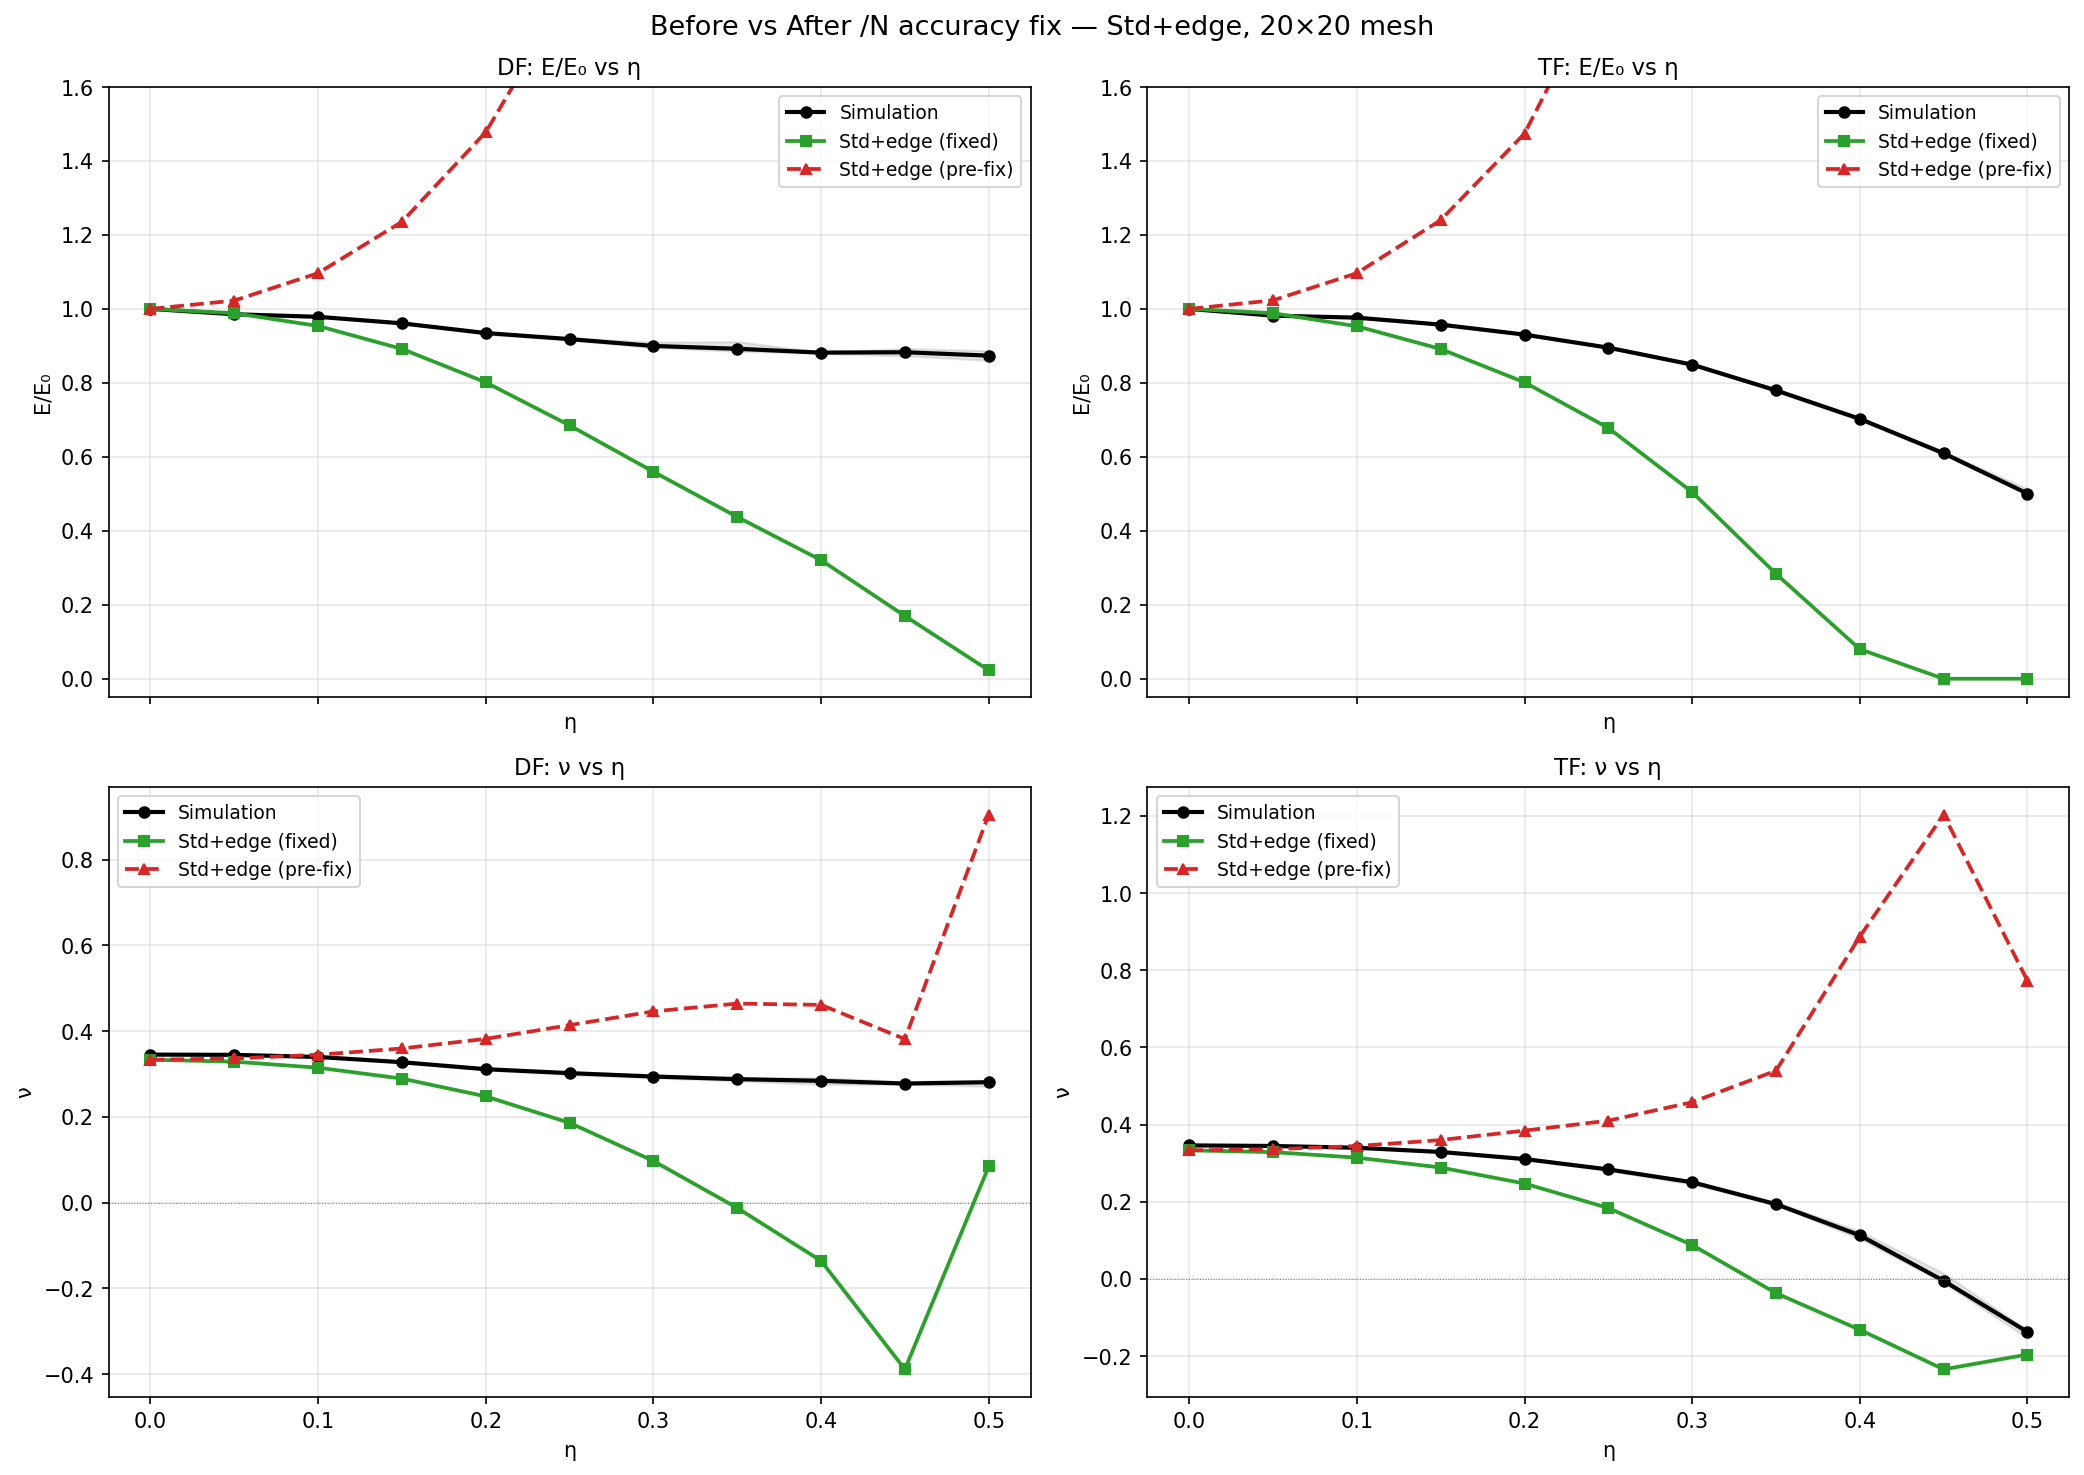
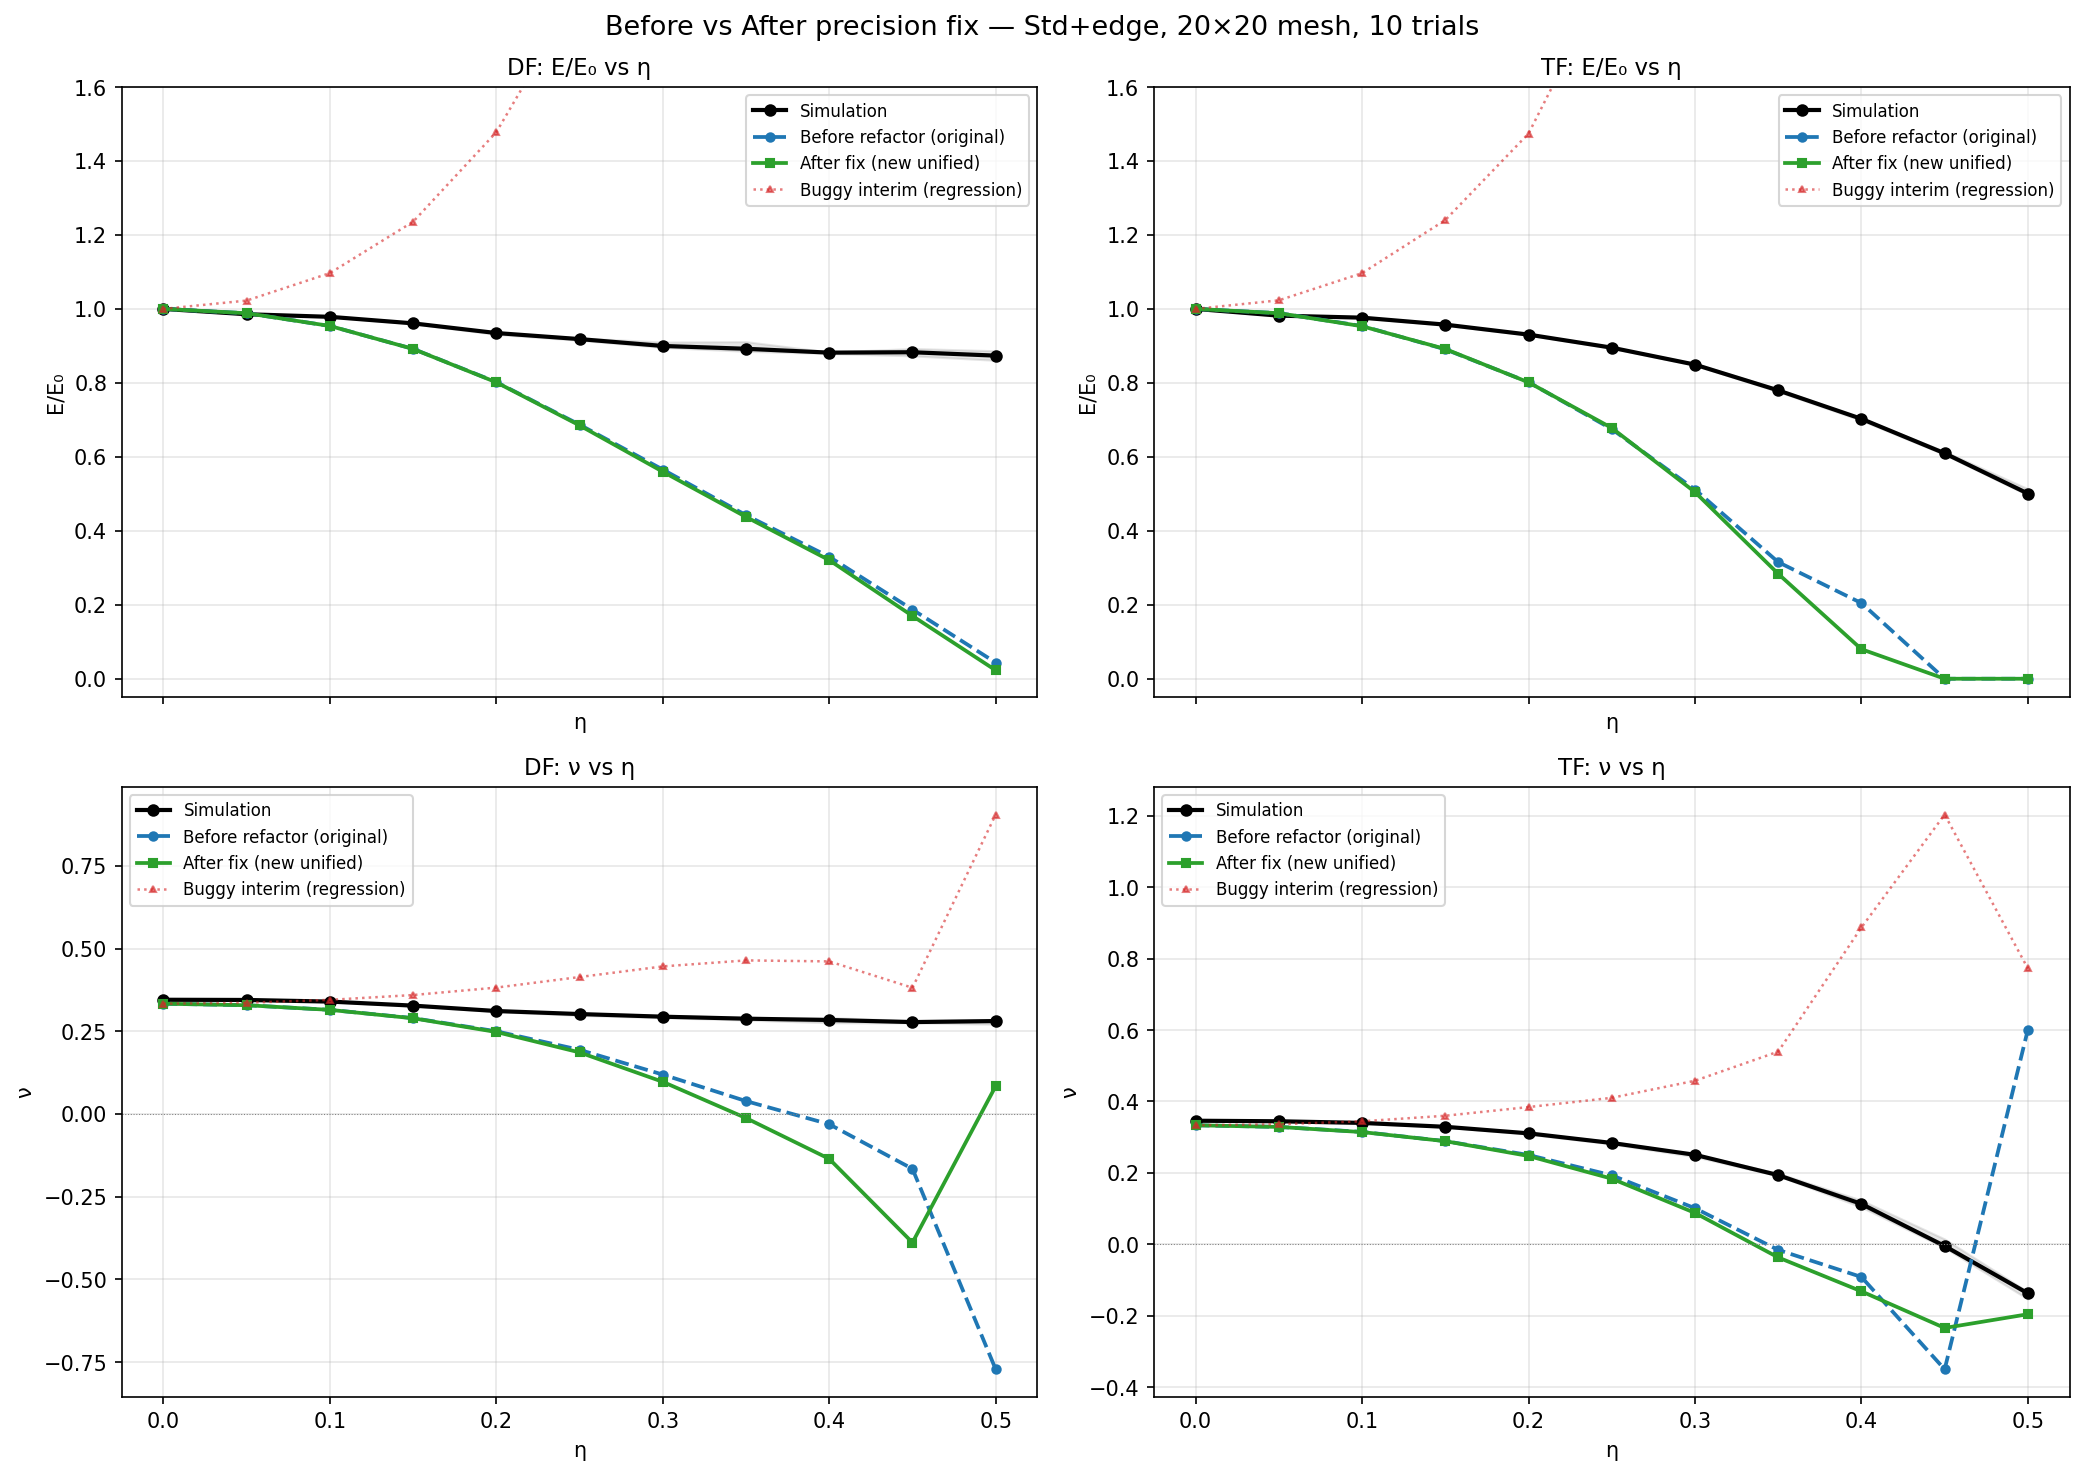
Fix before/after comparison: use actual original _woodbury_kkt_sparse
Previous version showed the buggy interim (which was never the original).
Now shows three lines:
  - blue dashed: original _woodbury_kkt_sparse (pre-refactor, correct)
  - green solid:  _woodbury_kkt_sparse_combined after /N fix (new, correct)
  - red dotted:   buggy interim (temporary regression during refactor)

Original and fixed are nearly identical — confirms the fix restored
correctness without changing results. Old function ran ~10× slower (55s/eta
vs 6s/eta) which motivated the refactor.

https://claude.ai/code/session_015phVDszgsK9y7r119GVKi9

diff --git a/benchmarking/run_before_after_fix.py b/benchmarking/run_before_after_fix.py
@@ -1,18 +1,12 @@
 """
-Before vs after the /N accuracy fix — showing exactly what changed.
+True before/after: original _woodbury_kkt_sparse (pre-refactor) vs
+new _woodbury_kkt_sparse_combined (post-fix).
 
-Only Std+edge was affected: the bug was in the non-AW (weights=None) branch
-of _woodbury_kkt_sparse_combined. AW+edge, Std, AW were all unaffected.
-
-Strategy: monkey-patch fst._woodbury_kkt_sparse_combined with the buggy
-version, call solver.forward(use_kkt=True, area_weighted=False) to collect
-pre-fix results, then restore.  Identical seeds/meshes as the fixed run.
+The buggy intermediate state (from the broken unified routing) is also shown
+for completeness but is clearly labeled as a temporary regression.
 """
 import sys, os, time
 import numpy as np
-import scipy.sparse as sp
-import scipy.sparse.linalg as spla
-from collections import defaultdict
 import matplotlib
 matplotlib.use('Agg')
 import matplotlib.pyplot as plt
@@ -30,107 +24,9 @@ SIZE       = (20, 20)
 TRIM_FRAC  = 0.85
 N_TRIALS   = 10
 
-CACHE_BUGGY = os.path.join(os.path.dirname(__file__), 'mf20_buggy_stdedge.npz')
-OUT         = os.path.join(os.path.dirname(__file__), 'new', 'before_after_fix.png')
+CACHE_OLD = os.path.join(os.path.dirname(__file__), 'mf20_old_kkt_data.npz')
+OUT       = os.path.join(os.path.dirname(__file__), 'new', 'before_after_fix.png')
 
-# ── Buggy replacement for _woodbury_kkt_sparse_combined ──────────────────────
-# Identical to the production function except for two /N lines restored
-# in the non-AW (weights=None) branch.
-
-def _woodbury_kkt_combined_BUGGY(A_blocks, B_blocks, dA_vecs,
-                                  kkt_arrays, angle_arrays=None, weights=None):
-    """Pre-fix version: two spurious /N divisions in non-AW Woodbury."""
-    if weights is not None:
-        # AW branch was correct — delegate to the real fixed function
-        return fst._woodbury_kkt_sparse_combined_FIXED(
-            A_blocks, B_blocks, dA_vecs, kkt_arrays, angle_arrays, weights)
-
-    s1_arr, s2_arr, q_arr = kkt_arrays
-    E_int  = len(s1_arr)
-    M_c    = E_int
-    N      = A_blocks.shape[0]
-
-    A_np  = A_blocks.detach().double().numpy()
-    B_np  = B_blocks.detach().double().numpy()
-    dA_np = dA_vecs.detach().double().numpy()
-
-    IDX3  = np.array([0, 3, 6])
-    M_np  = A_np[:, IDX3[:, None], IDX3[None, :]]
-    dM_np = B_np[:, IDX3[:, None], IDX3[None, :]]
-    eps3  = 1e-14 * np.abs(M_np).max()
-    I3    = np.eye(3)
-    M_inv = np.linalg.inv(M_np + eps3 * I3[None])
-
-    dA_3 = np.stack([dA_np[:, [k, 3+k, 6+k]] for k in range(3)], axis=2)
-    y3   = np.einsum('nij,njk->nik', M_inv, dA_3)
-
-    Vy3      = np.einsum('nij,njk->ik', dM_np, y3) / N   # ← BUG: /N
-    S3       = np.einsum('nij,njk->ik', dM_np, M_inv) / N
-    IminusS3 = I3 - S3
-    Z3       = np.linalg.solve(IminusS3, Vy3)
-    W0_3     = -(y3 + np.einsum('nij,jk->nik', M_inv, Z3) / N)
-
-    W0 = np.zeros((N, 9))
-    for k in range(3):
-        W0[:, [k, 3+k, 6+k]] = W0_3[:, :, k]
-
-    BMA_inv = np.einsum('nij,njk->nik', dM_np, M_inv)
-
-    tri_edges = defaultdict(list)
-    for e in range(E_int):
-        tri_edges[s1_arr[e]].append((e, +1))
-        tri_edges[s2_arr[e]].append((e, -1))
-    rows_g, cols_g, data_g = [], [], []
-    for n, elist in tri_edges.items():
-        Mn = M_inv[n]
-        for e1, sg1 in elist:
-            for e2, sg2 in elist:
-                val = sg1 * sg2 * float(q_arr[e1] @ Mn @ q_arr[e2])
-                rows_g.append(e1); cols_g.append(e2); data_g.append(val)
-    G_0  = sp.coo_matrix((data_g, (rows_g, cols_g)), shape=(M_c, M_c)).tocsc()
-    reg  = 1e-12 * max(abs(v) for v in data_g) if data_g else 1e-12
-    G_0  = G_0 + reg * sp.eye(M_c, format='csc')
-    G_lu = spla.factorized(G_0)
-
-    H0 = np.zeros((M_c, 3))
-    K0 = np.zeros((M_c, 3))
-    qM1  = np.einsum('el,elm->em', q_arr, M_inv[s1_arr])
-    qM2  = np.einsum('el,elm->em', q_arr, M_inv[s2_arr])
-    qBM1 = np.einsum('el,elm->em', q_arr, BMA_inv[s1_arr])
-    qBM2 = np.einsum('el,elm->em', q_arr, BMA_inv[s2_arr])
-    H0[:E_int] = qM1 - qM2
-    K0[:E_int] = qBM1 - qBM2
-
-    Y0     = np.column_stack([G_lu(H0[:, j]) for j in range(3)])
-    M_mat3 = N * IminusS3 + K0.T @ Y0
-
-    Lambda = np.zeros((M_c, 3))
-    for k in range(3):
-        r_k  = np.zeros(M_c)
-        diff = W0_3[s1_arr, :, k] - W0_3[s2_arr, :, k]
-        r_k[:E_int] = np.einsum('el,el->e', q_arr, diff)
-        lam0  = G_lu(r_k)
-        c_vec = np.linalg.solve(M_mat3, K0.T @ lam0)
-        Lambda[:, k] = lam0 - Y0 @ c_vec
-
-    CtLam_3 = np.zeros((N, 3, 3))
-    for k in range(3):
-        Lk_e = Lambda[:E_int, k]
-        np.add.at(CtLam_3[:, :, k], s1_arr,  q_arr * Lk_e[:, None])
-        np.add.at(CtLam_3[:, :, k], s2_arr, -q_arr * Lk_e[:, None])
-
-    AinvCt = np.einsum('nij,njk->nik', M_inv, CtLam_3)
-    gs3    = np.einsum('nij,njk->ik', dM_np, AinvCt) / N   # ← BUG: /N
-    PinvCt = AinvCt + np.einsum('nij,jk->nik', M_inv,
-                                  np.linalg.solve(IminusS3, gs3)) / N
-
-    dW = np.zeros((N, 9))
-    for k in range(3):
-        dW[:, [k, 3+k, 6+k]] = PinvCt[:, :, k]
-    return W0 - dW
-
-
-# ── Mesh builders ─────────────────────────────────────────────────────────────
 
 def make_df(eta):
     return D2C.generate_foam_distort_first(SIZE, eta, trim_frac=TRIM_FRAC)
@@ -158,53 +54,64 @@ def ec(C6):
     return 0.5 * (Ex + Ey), 0.5 * (-S[1, 0] * Ex + -S[0, 1] * Ey)
 
 
-# ── Collect buggy results ─────────────────────────────────────────────────────
-
-def run_buggy(cache):
+def run_old_kkt(cache):
+    """Run using the original _woodbury_kkt_sparse (pre-unification) directly."""
     if os.path.exists(cache):
-        print("  Loading buggy cache")
+        print("  Loading old KKT cache")
         d = np.load(cache)
         return {k: d[k] for k in d if k != 'etas'}
 
-    # Save a reference to the fixed function so AW branch can still call it
-    fst._woodbury_kkt_sparse_combined_FIXED = fst._woodbury_kkt_sparse_combined
-    fst._woodbury_kkt_sparse_combined       = _woodbury_kkt_combined_BUGGY
-
     n_eta = len(ETA_VALUES)
-    res   = {
-        'E_df':  np.full((n_eta, N_TRIALS), np.nan),
-        'nu_df': np.full((n_eta, N_TRIALS), np.nan),
-        'E_tf':  np.full((n_eta, N_TRIALS), np.nan),
-        'nu_tf': np.full((n_eta, N_TRIALS), np.nan),
-    }
+    res   = {f'{q}_{m}': np.full((n_eta, N_TRIALS), np.nan)
+             for q in ('E', 'nu') for m in ('df', 'tf')}
     t0 = time.time()
-    try:
-        for i_eta, eta in enumerate(ETA_VALUES):
-            for trial in range(N_TRIALS):
-                np.random.seed(100 * i_eta + trial)
-                for key, builder in [('df', make_df), ('tf', make_tf)]:
-                    try:
-                        DM = builder(eta)
-                        solver, rigs, rl = fst.from_triangulation(DM)
-                        with torch.no_grad():
-                            r = solver.forward(rigs, rl,
-                                               use_kkt=True, area_weighted=False,
-                                               use_angle_kkt=False)
-                        C6 = r['elastic_tensor'].numpy()
-                        E_v, nu_v = ec(C6)
-                        res[f'E_{key}'][i_eta, trial]  = E_v
-                        res[f'nu_{key}'][i_eta, trial] = nu_v
-                    except Exception as exc:
-                        print(f"    buggy {key} eta={eta:.2f} t={trial}: {exc}")
-            elapsed = time.time() - t0
-            print(f"  buggy eta={eta:.2f}  "
-                  f"df E={np.nanmedian(res['E_df'][i_eta]):.4f} "
-                  f"nu={np.nanmedian(res['nu_df'][i_eta]):+.4f}  "
-                  f"tf E={np.nanmedian(res['E_tf'][i_eta]):.4f} "
-                  f"nu={np.nanmedian(res['nu_tf'][i_eta]):+.4f}  [{elapsed:.0f}s]")
-    finally:
-        fst._woodbury_kkt_sparse_combined = fst._woodbury_kkt_sparse_combined_FIXED
-        print("  Restored fixed function.")
+
+    for i_eta, eta in enumerate(ETA_VALUES):
+        for trial in range(N_TRIALS):
+            np.random.seed(100 * i_eta + trial)
+            for key, builder in [('df', make_df), ('tf', make_tf)]:
+                try:
+                    DM = builder(eta)
+                    solver, rigs, rl = fst.from_triangulation(DM)
+
+                    # Call the OLD function directly, bypassing forward() routing
+                    vx = solver.edge_vecs[:, :, 0]
+                    vy = solver.edge_vecs[:, :, 1]
+                    length2 = solver.actual_length2
+                    factor  = rigs / length2 / 16.0
+                    bare = torch.stack([
+                        (factor * vx**4).sum(1),
+                        (factor * vx**3 * vy).sum(1),
+                        (factor * vx**2 * vy**2).sum(1),
+                        (factor * vx * vy**3).sum(1),
+                        (factor * vy**4).sum(1),
+                    ], dim=1)
+                    mean_tensor = bare.mean(0)
+                    delta    = bare - mean_tensor
+                    A_blocks = fst._batch_to_9x9(bare)
+                    B_blocks = fst._batch_to_9x9(delta)
+                    dA_vecs  = fst._batch_to_9vec(delta)
+
+                    # Use the original function directly
+                    W_np = fst._woodbury_kkt_sparse(
+                        A_blocks, B_blocks, dA_vecs, solver.kkt_arrays)
+                    W    = torch.as_tensor(W_np, dtype=bare.dtype)
+
+                    actual = fst._compute_actual_elastic_tensor(bare, W)
+                    C      = actual.mean(0).numpy()
+                    E_v, nu_v = ec(C)
+                    res[f'E_{key}'][i_eta, trial]  = E_v
+                    res[f'nu_{key}'][i_eta, trial] = nu_v
+
+                except Exception as exc:
+                    print(f"    old KKT {key} eta={eta:.2f} t={trial}: {exc}")
+
+        elapsed = time.time() - t0
+        print(f"  old KKT eta={eta:.2f}  "
+              f"df E={np.nanmedian(res['E_df'][i_eta]):.4f} "
+              f"nu={np.nanmedian(res['nu_df'][i_eta]):+.4f}  "
+              f"tf E={np.nanmedian(res['E_tf'][i_eta]):.4f} "
+              f"nu={np.nanmedian(res['nu_tf'][i_eta]):+.4f}  [{elapsed:.0f}s]")
     np.savez(cache, etas=ETA_VALUES, **res)
     return res
 
@@ -212,14 +119,15 @@ def run_buggy(cache):
 # ── Main ──────────────────────────────────────────────────────────────────────
 
 t_start = time.time()
-print("=== Running buggy Std+edge on DF + TF meshes ===")
-buggy = run_buggy(CACHE_BUGGY)
+print("=== Original _woodbury_kkt_sparse (pre-refactor) ===")
+old = run_old_kkt(CACHE_OLD)
 
-print("Loading fixed results...")
-d_df = np.load(os.path.join(os.path.dirname(__file__), 'mf20_df_data.npz'))
-d_tf = np.load(os.path.join(os.path.dirname(__file__), 'mf20_tf_data.npz'))
+print("Loading fixed + buggy + sim data...")
+d_df     = np.load(os.path.join(os.path.dirname(__file__), 'mf20_df_data.npz'))
+d_tf     = np.load(os.path.join(os.path.dirname(__file__), 'mf20_tf_data.npz'))
 d_sim_df = np.load(os.path.join(os.path.dirname(__file__), 'sim20_df_data.npz'))
 d_sim_tf = np.load(os.path.join(os.path.dirname(__file__), 'sim20_tf_data.npz'))
+d_buggy  = np.load(os.path.join(os.path.dirname(__file__), 'mf20_buggy_stdedge.npz'))
 print(f"All done in {time.time()-t_start:.0f}s")
 
 etas = ETA_VALUES
@@ -228,55 +136,62 @@ def med(arr): return np.nanmedian(arr, axis=1)
 def q25(arr): return np.nanpercentile(arr, 25, axis=1)
 def q75(arr): return np.nanpercentile(arr, 75, axis=1)
 
-
 def norm(arr2d):
     E0 = np.nanmedian(arr2d[0])
     return arr2d / max(abs(E0), 1e-10)
 
-
 # ── Plot ──────────────────────────────────────────────────────────────────────
 fig, axes = plt.subplots(2, 2, figsize=(14, 10), sharex=True)
-fig.suptitle('Before vs After /N accuracy fix — Std+edge, 20×20 mesh', fontsize=13)
+fig.suptitle('Before vs After precision fix — Std+edge, 20×20 mesh, 10 trials',
+             fontsize=13)
 
 panel_cfg = [
     (axes[0, 0], 'DF: E/E₀ vs η',
-     norm(d_sim_df['E_sim']), norm(d_df['E_Std+edge']), norm(buggy['E_df']),
-     'E/E₀', True),
+     norm(d_sim_df['E_sim']),
+     norm(d_df['E_Std+edge']),
+     norm(old['E_df']),
+     norm(d_buggy['E_df']),
+     'E/E₀'),
     (axes[0, 1], 'TF: E/E₀ vs η',
-     norm(d_sim_tf['E_sim']), norm(d_tf['E_Std+edge']), norm(buggy['E_tf']),
-     'E/E₀', True),
+     norm(d_sim_tf['E_sim']),
+     norm(d_tf['E_Std+edge']),
+     norm(old['E_tf']),
+     norm(d_buggy['E_tf']),
+     'E/E₀'),
     (axes[1, 0], 'DF: ν vs η',
-     d_sim_df['nu_sim'], d_df['nu_Std+edge'], buggy['nu_df'],
-     'ν',    False),
+     d_sim_df['nu_sim'],
+     d_df['nu_Std+edge'],
+     old['nu_df'],
+     d_buggy['nu_df'],
+     'ν'),
     (axes[1, 1], 'TF: ν vs η',
-     d_sim_tf['nu_sim'], d_tf['nu_Std+edge'], buggy['nu_tf'],
-     'ν',    False),
+     d_sim_tf['nu_sim'],
+     d_tf['nu_Std+edge'],
+     old['nu_tf'],
+     d_buggy['nu_tf'],
+     'ν'),
 ]
 
-for ax, title, sim_arr, fixed_arr, buggy_arr, ylabel, clip_e in panel_cfg:
+for ax, title, sim_arr, new_arr, orig_arr, buggy_arr, ylabel in panel_cfg:
     ax.set_title(title, fontsize=11)
-    ax.set_xlabel('η')
-    ax.set_ylabel(ylabel)
+    ax.set_xlabel('η'); ax.set_ylabel(ylabel)
     ax.grid(True, alpha=0.3)
 
-    # Simulation
     ax.fill_between(etas, q25(sim_arr), q75(sim_arr), color='gray', alpha=0.2)
     ax.plot(etas, med(sim_arr), 'k-o', lw=2, ms=5, label='Simulation')
 
-    # Fixed (after fix)
-    ax.plot(etas, med(fixed_arr), color='#2ca02c', ls='-',  marker='s', ms=5,
-            lw=1.8, label='Std+edge (fixed)')
+    ax.plot(etas, med(orig_arr), color='#1f77b4', ls='--', marker='o', ms=4,
+            lw=1.8, label='Before refactor (original)')
+    ax.plot(etas, med(new_arr),  color='#2ca02c', ls='-',  marker='s', ms=4,
+            lw=1.8, label='After fix (new unified)')
+    ax.plot(etas, med(buggy_arr), color='#d62728', ls=':', marker='^', ms=3,
+            lw=1.2, alpha=0.6, label='Buggy interim (regression)')
 
-    # Buggy (before fix)
-    ax.plot(etas, med(buggy_arr), color='#d62728', ls='--', marker='^', ms=5,
-            lw=1.8, label='Std+edge (pre-fix)')
-
-    if not clip_e:
+    if ylabel == 'ν':
         ax.axhline(0, color='gray', lw=0.5, ls=':')
 
-    ax.legend(fontsize=9)
+    ax.legend(fontsize=8)
 
-# Clip extreme E/E0 for readability
 for ax in [axes[0, 0], axes[0, 1]]:
     ax.set_ylim(-0.05, 1.6)
 
